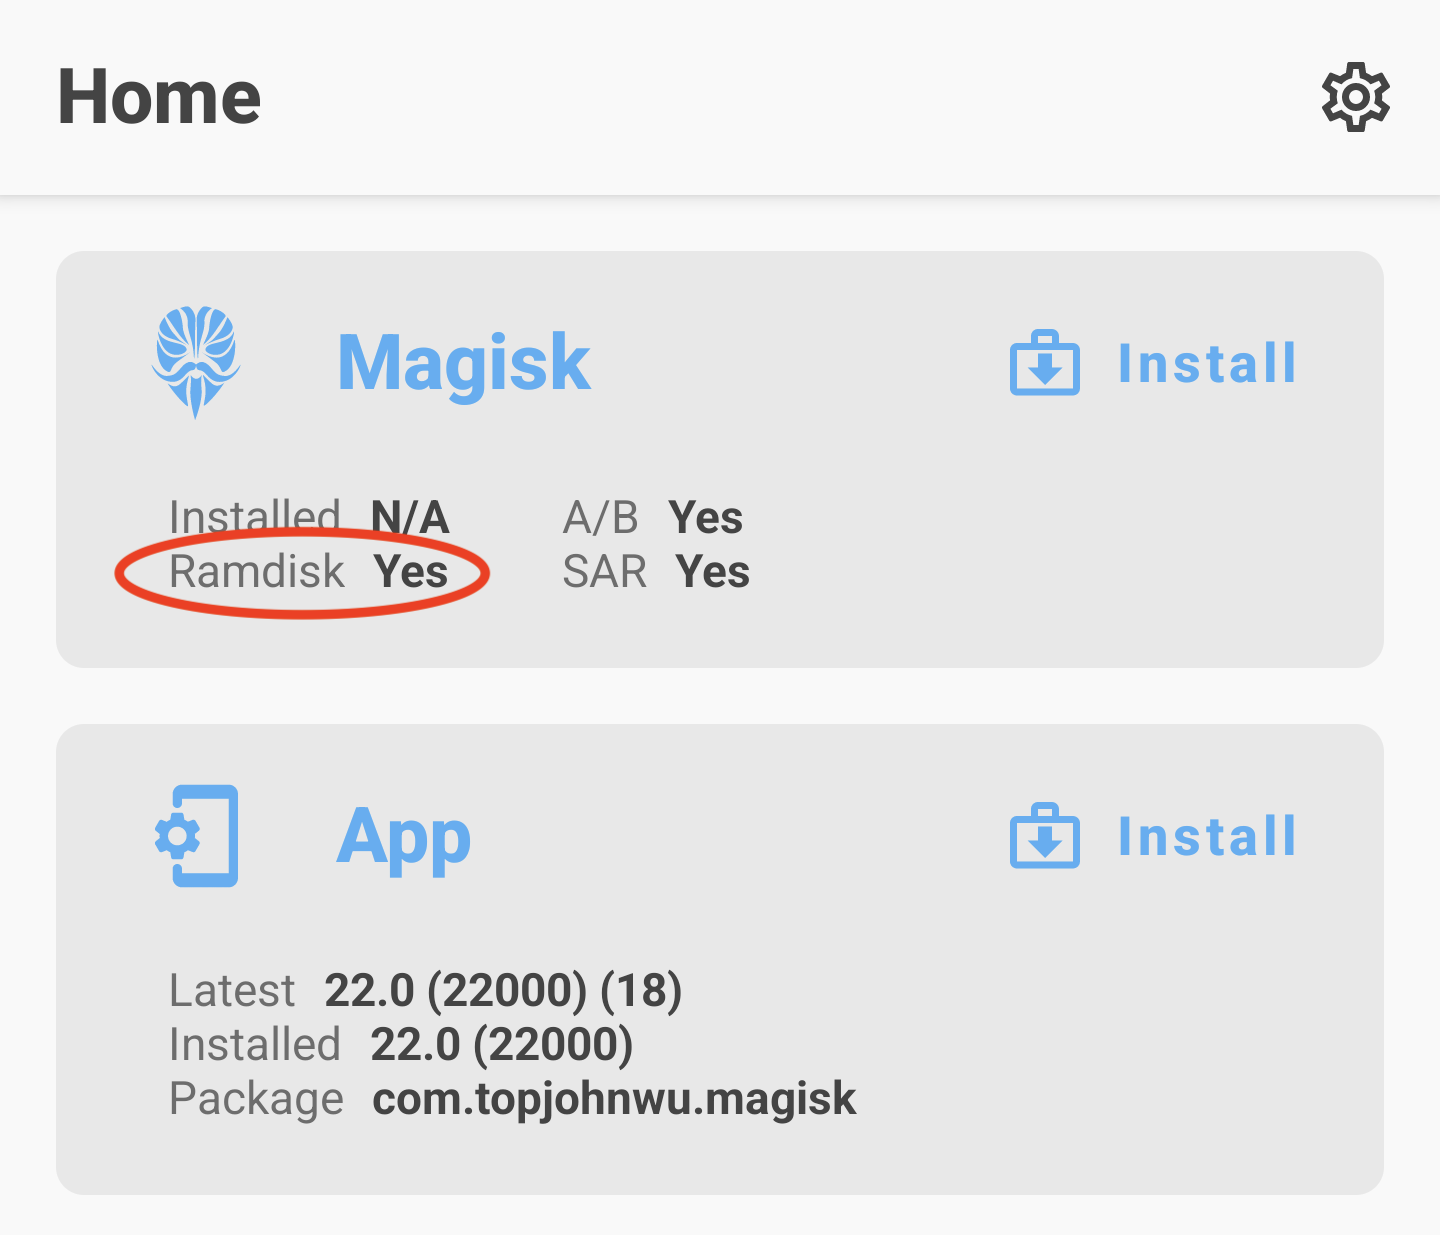
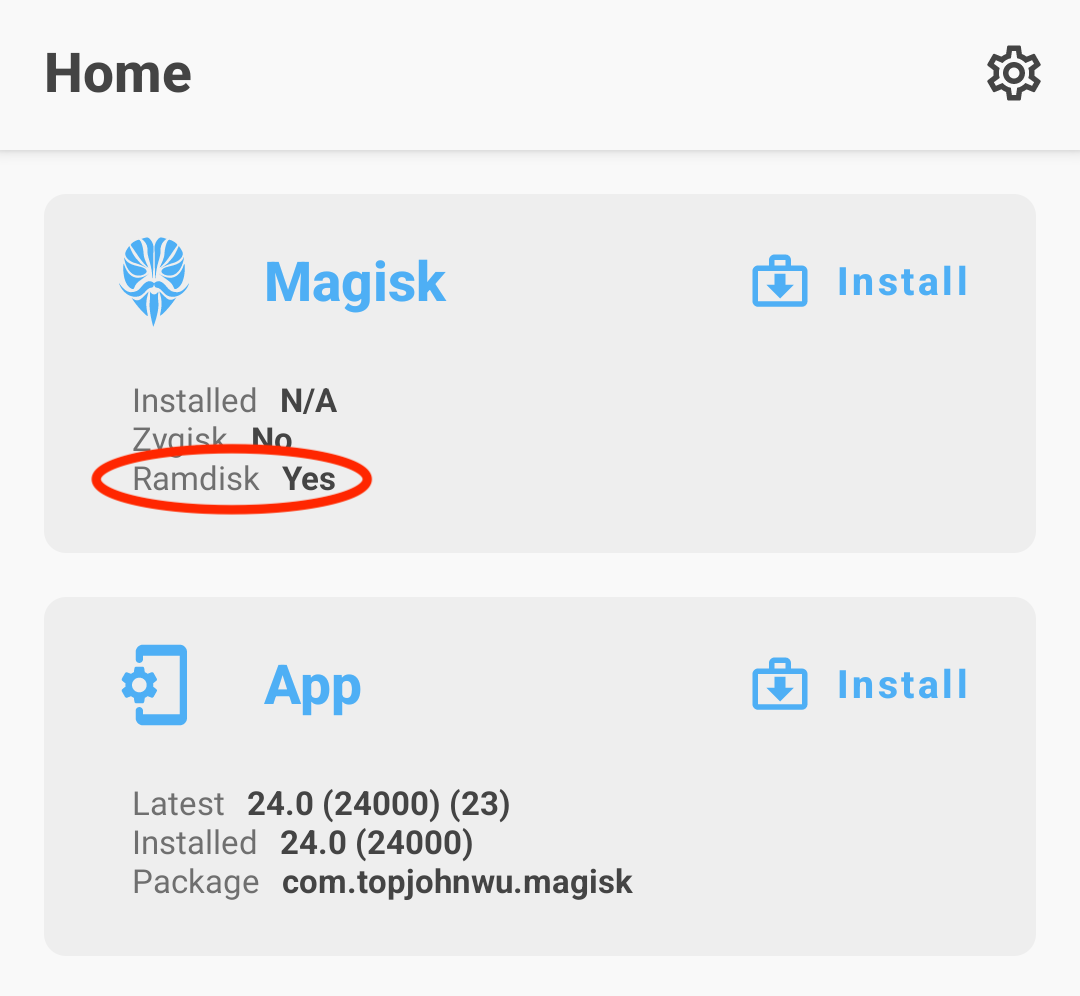
Update install guides

diff --git a/docs/install.md b/docs/install.md
@@ -7,46 +7,56 @@ If you already have Magisk installed, it is **strongly recommended** to upgrade 
 Before you start:
 
 - This tutorial assumes you understand how to use `adb` and `fastboot`
-- Your device's bootloader has to be unlocked
 - If you plan to also install custom kernels, install it after Magisk
+- Your device's bootloader has to be unlocked
 
 ---
 
-Download and install the latest Magisk app. We use the app to gather some information about your device. In the home screen, you should see this:
+Download and install the latest [Magisk app](https://github.com/topjohnwu/Magisk/releases/latest). In the home screen, you should see:
 
 <p align="center"><img src="images/device_info.png" width="500"/></p>
 
-Pay special attention to the **Ramdisk** info. The result of this info determines whether your device has ramdisk in the boot partition.
+The result of **Ramdisk** determines whether your device has ramdisk in the boot partition. If your device does not have boot ramdisk, read the [Magisk in Recovery](#magisk-in-recovery) section before continuing.
 
-> *(Unfortunately, there are exceptions as some devices' bootloader accepts ramdisk even if it shouldn't. In this case, you will have to follow the instructions as if your device's boot partition does include ramdisk. There is no way to detect this, so the only way to know for sure is to actually try. Fortunately, as far as we know, only some Xiaomi devices are known to have this property, so most people can simply ignore this piece of information.)*
+> _(Unfortunately, there are exceptions as some devices' bootloader accepts ramdisk even if it shouldn't. In this case, you will have to follow the instructions as if your device's boot partition **does** include ramdisk. There is no way to detect this, so the only way to know for sure is to actually try. Fortunately, as far as we know, only some Xiaomi devices are known to have this property, so most people can simply ignore this piece of information.)_
 
-**If your device does not have boot ramdisk, read the [Magisk in Recovery](#magisk-in-recovery) section before installing. The information in that section is VERY important!**
+If you are using a Samsung device that is launched with Android 9.0 or higher, you can now jump to [its own section](#samsung-system-as-root).
 
-If you are using a Samsung device and the **SAR** result is **Yes**, please check [its own section](#samsung-system-as-root).
+If your device has boot ramdisk, get a copy of the `boot.img`.<br>
+If your device does **NOT** have boot ramdisk, get a copy of the `recovery.img`.<br>
+You should be able to extract the file you need from official firmware packages or your custom ROM zip.
 
-Otherwise, continue to [Patching Images](#patching-images).
+Next, we need to know whether your device has a separate `vbmeta` partition.
 
-(P.S.1: If your device has boot ramdisk, you can also install Magisk with a [custom recovery](#custom-recovery), **but it is not recommended**)<br>
-(P.S.2: Huawei devices are not supported, and the instructions are removed from this page.)
+- If your official firmware package contains `vbmeta.img`, then yes, your device **has** a separate `vbmeta` partition
+- You can also check by connecting your device to a PC and run the command:<br>
+  `adb shell ls -l /dev/block/by-name`
+- If you find `vbmeta`, `vbmeta_a`, or `vbmeta_b`, then yes, your device **has** a separate `vbmeta` partition
+- Otherwise, your device **does not** have a separate `vbmeta` partition.
+
+Quick recap, at this point, you should know and prepare:
+
+1. Whether your device has boot ramdisk
+2. Whether your device has a separate `vbmeta` partition
+3. A `boot.img` or `recovery.img` based on the result of (1)
+
+Let's continue to [Patching Images](#patching-images).
 
 ## Patching Images
 
-If your device has boot ramdisk, you need a copy of the `boot.img`<br>
-If your device does **NOT** have boot ramdisk, you need a copy of the `recovery.img`.
-
-You should be able to extract the file you need from official firmware packages or your custom ROM zip (if using one). If you are still having trouble, go to [XDA-Developers](https://forum.xda-developers.com/) and look for resources, guides, discussions, or ask for help in your device's forum.
-
 - Copy the boot/recovery image to your device
 - Press the **Install** button in the Magisk card
-- If you are patching a recovery image, make sure **"Recovery Mode"** is checked in options.<br>In most cases it should already be automatically checked.
-- Choose **"Select and Patch a File"** in method, and select the stock boot/recovery image
-- The Magisk app will patch the image to `[Internal Storage]/Download/magisk_patched_[random_strings].img`.
-- Copy the patched image to your PC with ADB:<br>
-`adb pull /sdcard/Download/magisk_patched_[random_strings].img`
+- If you are patching a recovery image, check the **"Recovery Mode"** option
+- If your device does **NOT** have a separate `vbmeta` partition, check the **"Patch vbmeta in boot image"** option
+- Choose **"Select and Patch a File"** in method, and select the boot/recovery image
+- Start the installation, and copy the patched image to your PC using ADB:<br>
+  `adb pull /sdcard/Download/magisk_patched_[random_strings].img`
 - Flash the patched boot/recovery image to your device.<br>
-For most devices, reboot into fastboot mode and flash with command:<br>
-`fastboot flash boot /path/to/magisk_patched.img` or <br>
-`fastboot flash recovery /path/to/magisk_patched.img` if flashing a recovery image
+  For most devices, reboot into fastboot mode and flash with command:<br>
+  `fastboot flash boot /path/to/magisk_patched.img` or <br>
+  `fastboot flash recovery /path/to/magisk_patched.img`
+- (Optional) If your device has a separate `vbmeta` partition, you can patch the `vbmeta` partition with command:<br>
+  `fastboot flash vbmeta --disable-verity --disable-verification vbmeta.img`
 - Reboot and voila!
 
 ## Uninstallation
@@ -55,9 +65,9 @@ The easiest way to uninstall Magisk is directly through the Magisk app. If you i
 
 ## Magisk in Recovery
 
-If your device does not have ramdisk in boot images, Magisk has no choice but to hijack the recovery partition. For these devices, you will have to **reboot to recovery** every time you want Magisk enabled.
+In the case when your device does not have ramdisk in boot images, Magisk has no choice but to hijack the recovery partition. For these devices, you will have to **reboot to recovery** every time you want Magisk enabled.
 
-Since Magisk now hijacks the recovery, there is a special mechanism for you to *actually* boot into recovery mode. Each device model has its own key combo to boot into recovery, as an example for Galaxy S10 it is (Power + Bixby + Volume Up). A quick search online should easily get you this info. As soon as you press the combo and the device vibrates with a splash screen, release all buttons to boot into Magisk. If you decide to boot into the actual recovery mode, **long press volume up until you see the recovery screen**.
+When Magisk hijacks the recovery, there is a special mechanism to allow you to _actually_ boot into recovery mode. Each device model has its own key combo to boot into recovery, as an example for Galaxy S10 it is (Power + Bixby + Volume Up). A quick search online should easily get you this info. As soon as you press the key combo and the device vibrates with a splash screen, release all buttons to boot into Magisk. If you decide to boot into the actual recovery mode, **long press volume up until you see the recovery screen**.
 
 As a summary, after installing Magisk in recovery **(starting from power off)**:
 
@@ -75,7 +85,7 @@ As a summary, after installing Magisk in recovery **(starting from power off)**:
 
 - Installing Magisk **WILL** trip KNOX
 - Installing Magisk for the first time **REQUIRES** a full data wipe (this is **NOT** counting the data wipe when unlocking bootloader). Backup your data before continue.
-- Download Odin (only runs on Windows) that supports your device. You can find it easily with a quick search online.
+- Download Odin (only runs on Windows) that supports your device.
 
 ### Unlocking Bootloader
 
@@ -91,27 +101,27 @@ Unlocking the bootloader on modern Samsung devices have some caveats. The newly 
 ### Instructions
 
 - Use either [samfirm.js](https://github.com/jesec/samfirm.js), [Frija](https://forum.xda-developers.com/s10-plus/how-to/tool-frija-samsung-firmware-downloader-t3910594), or [Samloader](https://forum.xda-developers.com/s10-plus/how-to/tool-samloader-samfirm-frija-replacement-t4105929) to download the latest firmware zip of your device directly from Samsung servers.
--  Unzip the firmware and copy the `AP` tar file to your device. It is normally named as `AP_[device_model_sw_ver].tar.md5`
+- Unzip the firmware and copy the `AP` tar file to your device. It is normally named as `AP_[device_model_sw_ver].tar.md5`
 - Press the **Install** button in the Magisk card
-- If your device does **NOT** have boot ramdisk, make sure **"Recovery Mode"** is checked in options.<br>In most cases it should already be automatically checked.
+- If you are patching a recovery image, check the **"Recovery Mode"** option
 - Choose **"Select and Patch a File"** in method, and select the `AP` tar file
 - The Magisk app will patch the whole firmware file to `[Internal Storage]/Download/magisk_patched_[random_strings].tar`
-- Copy the patched tar file to your PC with ADB:<br>
-`adb pull /sdcard/Download/magisk_patched_[random_strings].tar`<br>
-**DO NOT USE MTP** as it is known to corrupt large files.
-- Reboot to download mode. Open Odin on your PC, and flash `magisk_patched.tar` as `AP`, together with `BL`, `CP`, and `CSC` (**NOT** `HOME_CSC` because we want to **wipe data**) from the original firmware. This could take a while (>10 mins).
+- Start the installation, and copy the patched tar file to your PC using ADB:<br>
+  `adb pull /sdcard/Download/magisk_patched_[random_strings].tar`<br>
+  **DO NOT USE MTP** as it is known to corrupt large files.
+- Reboot to download mode. Open Odin on your PC, and flash `magisk_patched.tar` as `AP`, together with `BL`, `CP`, and `CSC` (**NOT** `HOME_CSC` because we want to **wipe data**) from the original firmware.
 - Your device should reboot automatically once Odin finished flashing. Agree to do a factory reset if asked.
 - If your device does **NOT** have boot ramdisk, reboot to recovery now to enable Magisk (reason stated in [Magisk in Recovery](#magisk-in-recovery)).
-- Install the latest Magisk app and launch the app. It should show a dialog asking for additional setup. Let it do its job and the app will automatically reboot your device.
-- Voila! Enjoy Magisk 😃
+- Install the Magisk app you've downloaded and launch the app. It should show a dialog asking for additional setup.
+- Let the app do its job and automatically reboot the device. Voila!
 
 ### Upgrading the OS
 
-Once you have rooted your Samsung device, you can no longer upgrade your Android OS through OTA. To upgrade your device's OS, you have to manually download the new firmware zip file and go through the same `AP` patching process written in the previous section. **The only difference here is in the Odin flashing step: we do NOT use the `CSC` tar, but the `HOME_CSC` tar instead as we are performing an upgrade, not the initial install**.
+Once you have rooted your Samsung device, you can no longer upgrade your Android OS through OTA. To upgrade your device's OS, you have to manually download the new firmware zip file and go through the same `AP` patching process written in the previous section. **The only difference here is in the Odin flashing step: do NOT use the `CSC` tar, but the `HOME_CSC` tar instead as we are performing an upgrade, not the initial install**.
 
 ### Important Notes
 
-- **Never, ever** try to restore either `boot` or `recovery` partitions back to stock! You can brick your device by doing so, and the only way to recover from this is to do a full Odin restore with data wipe.
+- **Never, ever** try to restore either `boot`, `recovery`, or `vbmeta` partitions back to stock! You can brick your device by doing so, and the only way to recover from this is to do a full Odin restore with data wipe.
 - To upgrade your device with a new firmware, **NEVER** directly use the stock `AP` tar file with reasons mentioned above. **Always** patch `AP` in the Magisk app and use that instead.
 - Never just flash only `AP`, or else Odin may shrink your `/data` filesystem size. Flash `AP` + `BL` + `CP` + `HOME_CSC` when upgrading.
 
@@ -119,11 +129,11 @@ Once you have rooted your Samsung device, you can no longer upgrade your Android
 
 > **This installation method is deprecated and is maintained with minimum effort. YOU HAVE BEEN WARNED!**
 
-It is very difficult to accurately detect the device's information in custom recovery environments. Due to this reason, installing Magisk through custom recoveries on modern devices is no longer recommended. If you face any issues, please use the [Patch Image](#patching-images) method as it is guaranteed to work 100% of the time.
+Installing using custom recoveries is only possible if your device has boot ramdisk. Installing Magisk through custom recoveries on modern devices is no longer recommended. If you face any issues, please use the proper [Patch Image](#patching-images) method.
 
 - Download the Magisk APK
-- Rename the `.apk` file extension to `.zip`, for example: `Magisk-v22.0.apk` → `Magisk-v22.0.zip`. If you have trouble renaming the file extension (like on Windows), use a file manager on Android or the one included in TWRP to rename the file.
+- Rename the `.apk` file extension to `.zip`, for example: `Magisk-v24.0.apk` → `Magisk-v24.0.zip`. If you have trouble renaming the file extension (like on Windows), use a file manager on Android or the one included in TWRP to rename the file.
 - Flash the zip just like any other ordinary flashable zip.
 - Reboot and check whether the Magisk app is installed. If it isn't installed automatically, manually install the APK.
 
-> Warning: the `sepolicy.rule` file of modules may be stored in the `cache` partition. DO NOT MANUALLY WIPE THE `CACHE` PARTITION.
+> Warning: the `sepolicy.rule` file of modules may be stored in the `cache` partition. DO NOT WIPE THE `CACHE` PARTITION.
